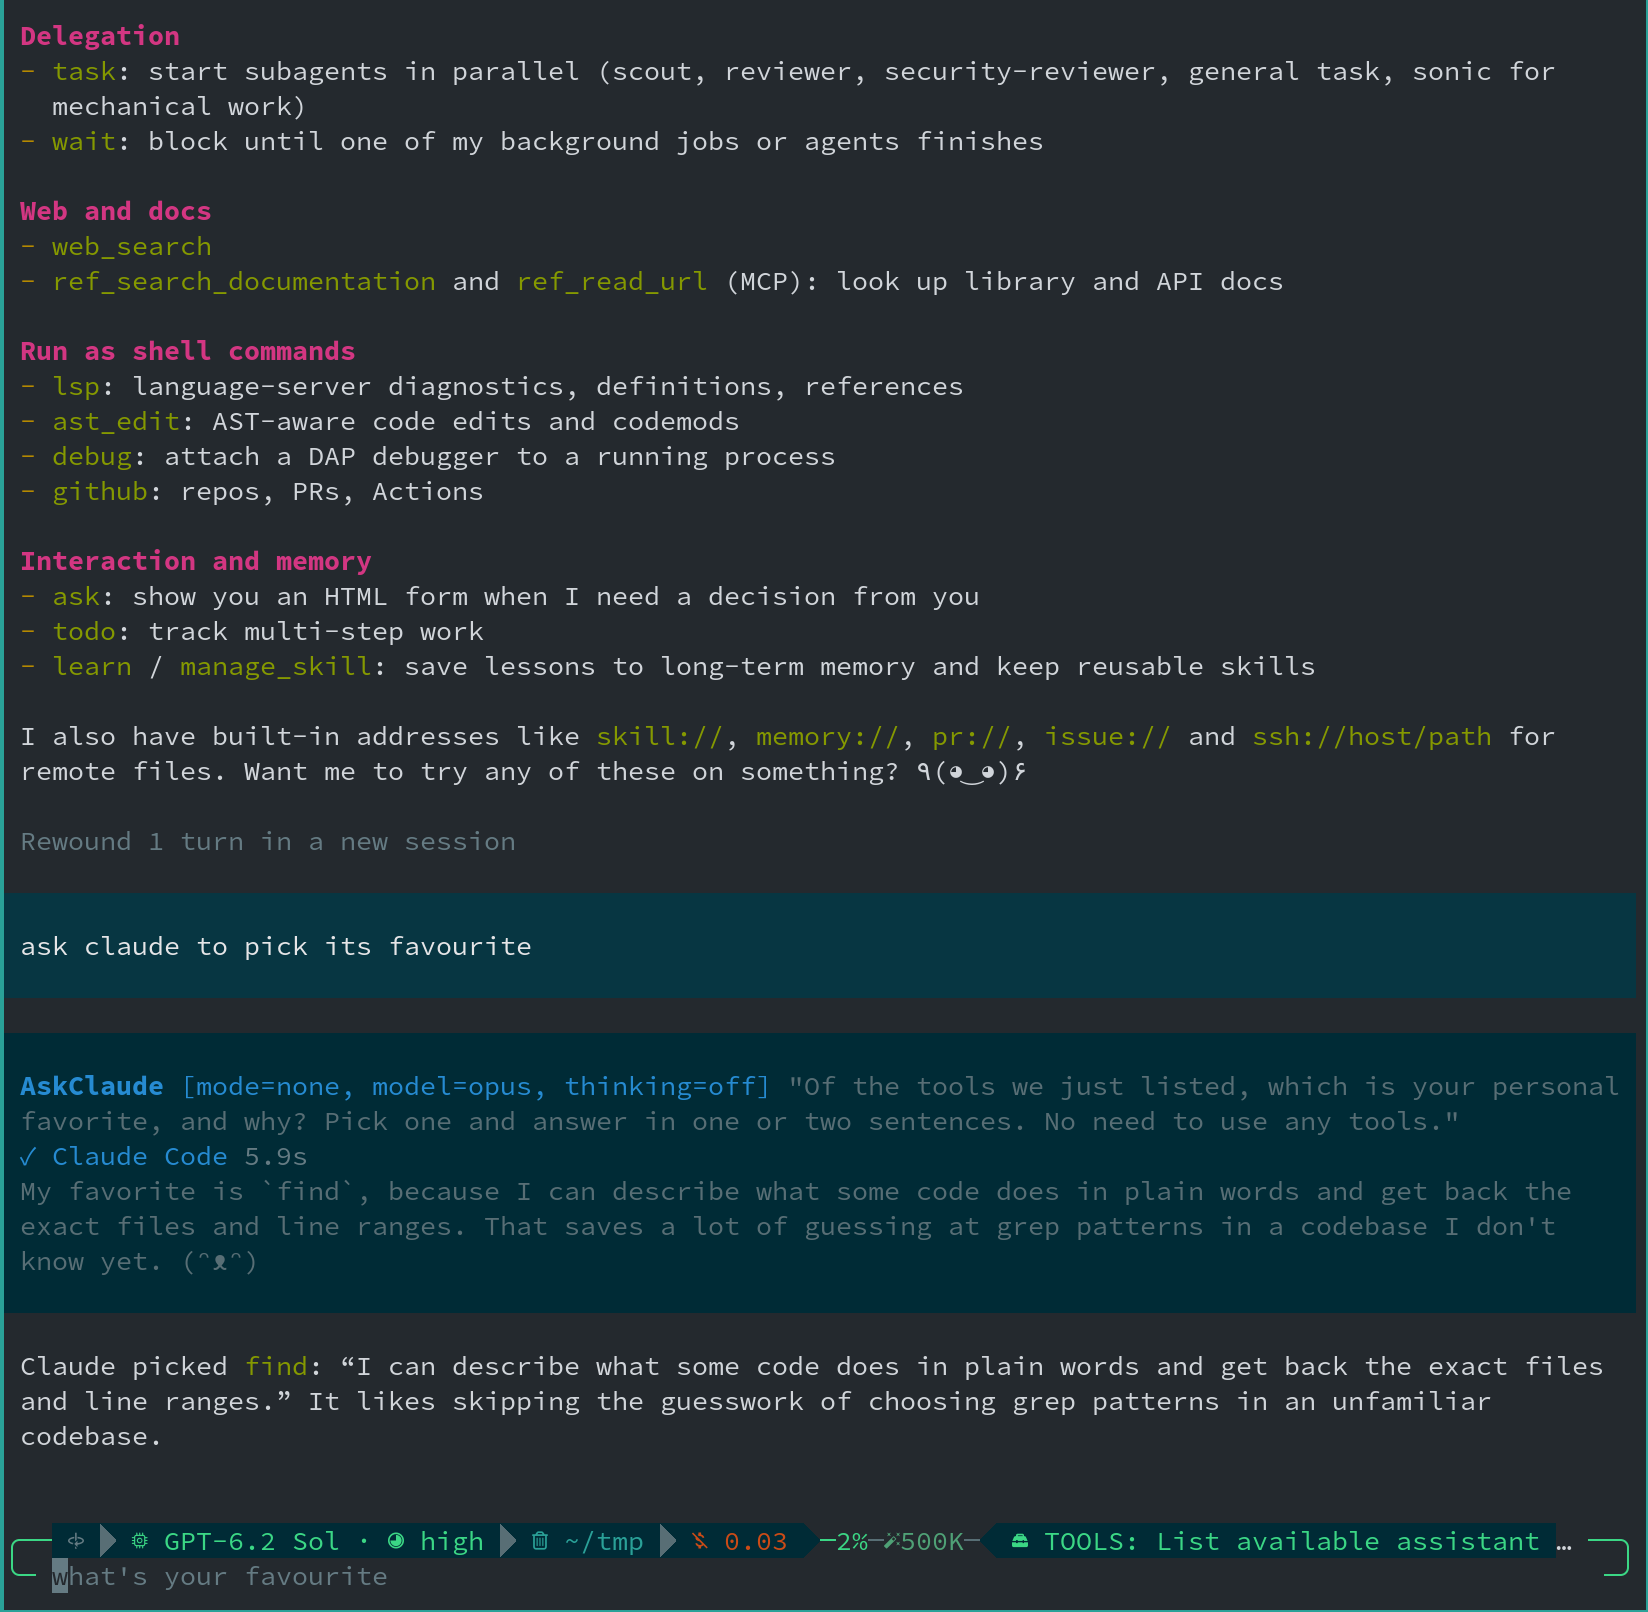
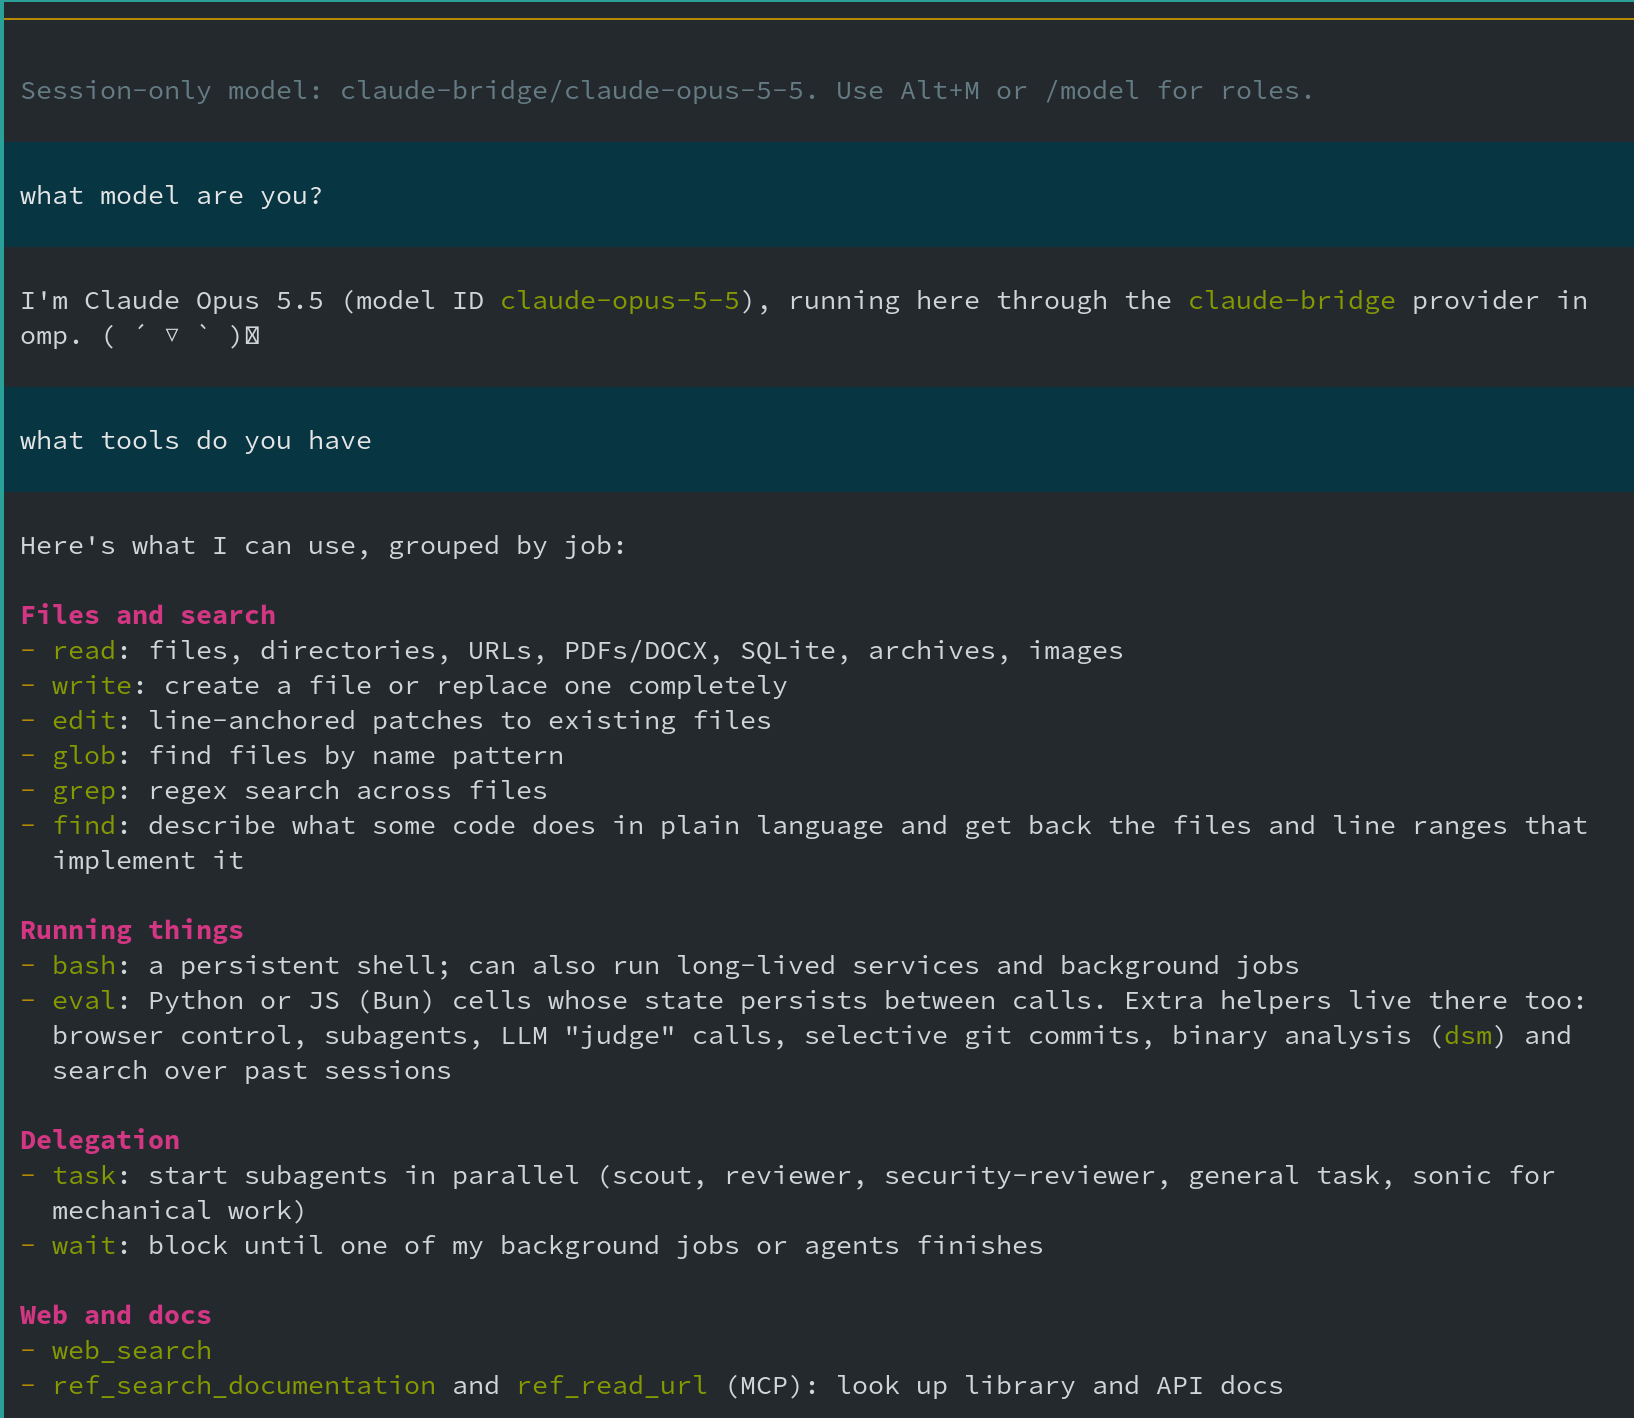
docs: swap screenshot order and clarify config & SDK billing note

diff --git a/README.md b/README.md
@@ -189,7 +189,7 @@ You can also name the tool in a skill or AGENTS.md: *"Call AskClaude to review t
 
 ## Configuration reference
 
-The extension reads `~/.omp/agent/claude-bridge.json` and the project's `.omp/claude-bridge.json`. Project settings override global settings. Start with [`claude-bridge.example.json`](claude-bridge.example.json).
+Configuration is optional — the extension works out of the box with sensible defaults and does not auto-create a config file. If you want to override any setting below, create `~/.omp/agent/claude-bridge.json` (global) or `.omp/claude-bridge.json` (project, overrides global). You can start from [`claude-bridge.example.json`](claude-bridge.example.json).
 
 ```json
 {
@@ -289,9 +289,9 @@ This project is a **fork** with the following lineage:
 
 See [NOTICE](NOTICE) for full attribution.
 
-> Anthropic [announced and then unannounced](https://support.claude.com/en/articles/15036540-use-the-claude-agent-sdk-with-your-claude-plan) a change to how Agent-SDK tool usage is billed. As of June 15, 2026 it uses your subscription quota just like Claude Code direct.
+> **Billing & quota:** When signed into a Claude subscription (Pro / Max / Team), the Claude Agent SDK draws from your plan's standard usage limits just like interactive Claude Code (unless you explicitly route traffic through a Claude Console API key — see [Anthropic's Agent SDK plan guide](https://support.claude.com/en/articles/15036540-use-the-claude-agent-sdk-with-your-claude-plan)).
 >
-> To avoid Anthropic's higher 5-hour session-limit metering on the Agent SDK's default `sdk-ts` entrypoint ([anthropics/claude-code#97074](https://github.com/anthropics/claude-code/issues/97074)), the bridge sets `CLAUDE_CODE_ENTRYPOINT=omp-claude-bridge` on every spawned Claude Code subprocess (overriding any inherited host value).
+> Because the Agent SDK's default `sdk-ts` entrypoint drains the 5-hour session limit faster than interactive use ([anthropics/claude-code#97074](https://github.com/anthropics/claude-code/issues/97074)), this bridge sets `CLAUDE_CODE_ENTRYPOINT=omp-claude-bridge` on every spawned Claude Code subprocess.
 
 ## License
 
